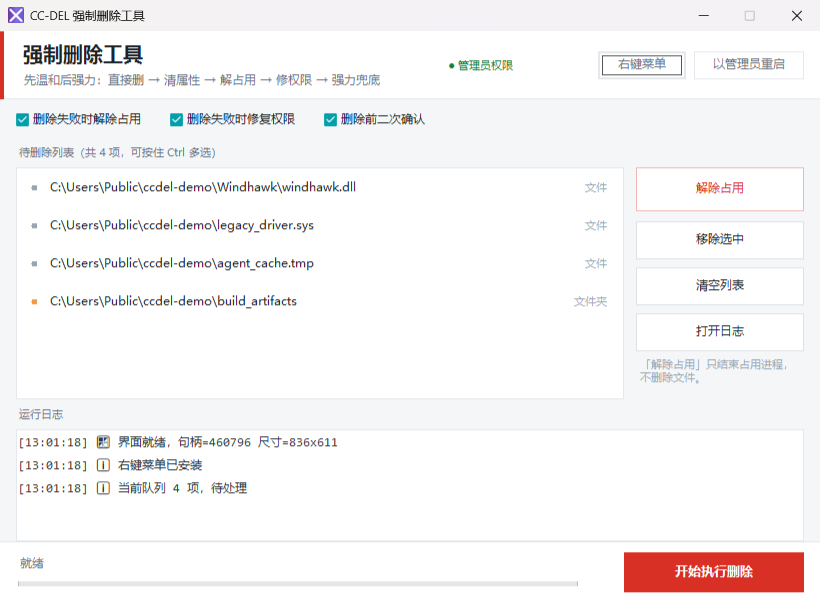
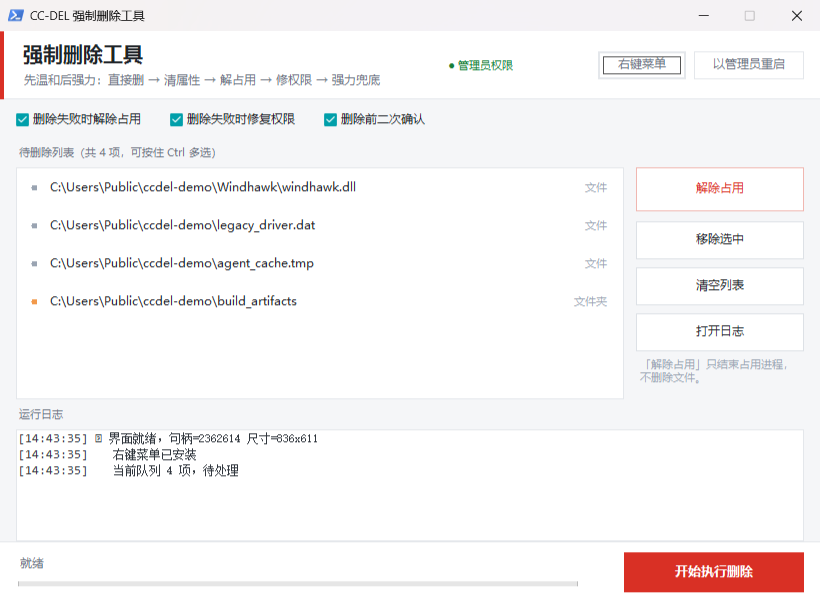
feat: 换成 PowerShell 图标，并补上「从任意 exe 搬图标」的工具
- src/logo.ico 从系统 powershell.exe 的图标组逐帧搬过来（16/20/24/32/40/48/64/256，
  全部 32bpp 原生像素），不再只有 16/32/48 三档
- 新增 tools/export-ico.ps1：读 PE 的 RT_GROUP_ICON + RT_ICON 原样拼成 .ico，
  不重绘不缩放；顺带修掉「资源名指针只在枚举回调里有效」的坑
- src/build.bat 改为纯 ASCII：GBK/UTF-8 两种编码下 cmd 都会把中文 rem 行撕开，
  静默把半行当命令执行，本地构建直接失败
- docs/logo.png、docs/screenshot.png 同步换成新图标（截图是真窗口抓的）
- README：换图标两条路（借别的程序 / 自己的 PNG）、改名后图标不见的排查办法

diff --git a/README.md b/README.md
@@ -164,20 +164,35 @@ go build -trimpath -ldflags "-H windowsgui -s -w" -o ..\CC-DEL.exe .
 
 ### 换图标
 
-`logo.ico` 里备了 16 / 32 / 48 三个尺寸——**不能只放一个 256×256**：
-资源管理器列表视图、标题栏、任务栏都用小尺寸，只给大图系统会自己缩，糊得厉害，
-个别位置干脆显示空白。
+当前图标直接取自系统自带的 `C:\Windows\System32\WindowsPowerShell\v1.0\powershell.exe`，
+**原始 8 帧**（16 / 20 / 24 / 32 / 40 / 48 / 64 / 256）原样搬过来，没有重绘、没有缩放，
+所以每种视图尺寸都是原生像素。
 
-有 PNG 设计稿就用脚本转：
+`logo.ico` 里**不能只放一个 256×256**：资源管理器列表视图、标题栏、任务栏都用小尺寸，
+只给大图系统会自己缩，糊得厉害，个别位置干脆显示空白。
+
+借别的程序的图标（不缩放、逐帧搬）：
+
+```powershell
+pwsh -File tools/export-ico.ps1 -Source C:\Windows\System32\WindowsPowerShell\v1.0\powershell.exe -List
+pwsh -File tools/export-ico.ps1 -Source ...\powershell.exe -Out src\logo.ico
+```
+
+有自己的 PNG 设计稿就用：
 
 ```powershell
 pwsh -File tools/make-ico.ps1 -Png my-logo.png -Out src/logo.ico
+```
+
+两条路都要再重编一次资源：
+
+```powershell
 cd src
 windres -O coff -F pe-x86-64 -o rsrc.syso rsrc.rc   # 换了 ico 必须重编资源
 build.bat
 ```
 
-脚本一次生成 16/24/32/48/64/128/256 七档（256 用 PNG 压缩，其余用 BMP），
+`make-ico.ps1` 生成 16/24/32/48/64/128/256 七档（256 用 PNG 压缩，其余用 BMP），
 `tools/check-ico.ps1` 可以回读检查每一档是不是都在。
 
 编完想确认图标真进 exe 了：
@@ -206,6 +221,7 @@ CC-DEL/
 ├── tools/
 │   ├── screenshot.ps1  生成 README 截图
 │   ├── make-ico.ps1    PNG → 多尺寸 ico
+│   ├── export-ico.ps1  从任意 exe/dll 逐帧搬图标（不缩放）
 │   └── check-icon.ps1  检查 exe 的图标资源与子系统（防「没图标 / 带黑窗」）
 ├── docs/
 │   ├── logo.png
@@ -257,6 +273,21 @@ Windows 10 / 11 64 位，只需系统自带的 Windows PowerShell 5.1。
 **图标换了但 exe 上没变？**
 `rsrc.syso` 是 `logo.ico` 的预编译副本，改 ico 之后必须重新跑一次 `windres`，
 否则 exe 里还是旧图标。`build.bat` 在有 windres 时会自动重编。
+
+**exe 改了个名字，图标就没了？**
+图标在 PE 资源里，改名动不了它——先确认资源还在：
+
+```powershell
+pwsh -File tools/check-icon.ps1 -Exe CC-DEL0.exe   # RT_GROUP_ICON: 1 就说明图标在
+```
+
+资源在、显示不出来，就是资源管理器的图标缓存（`iconcache_*.db`）过期了。刷一次：
+
+```powershell
+ie4uinit.exe -show          # 重建图标缓存，不用重启资源管理器
+```
+
+顺手把文件挪到别的文件夹再看一眼，也能立刻区分「真没图标」和「缓存撒谎」。
 
 ## 免责声明
 
